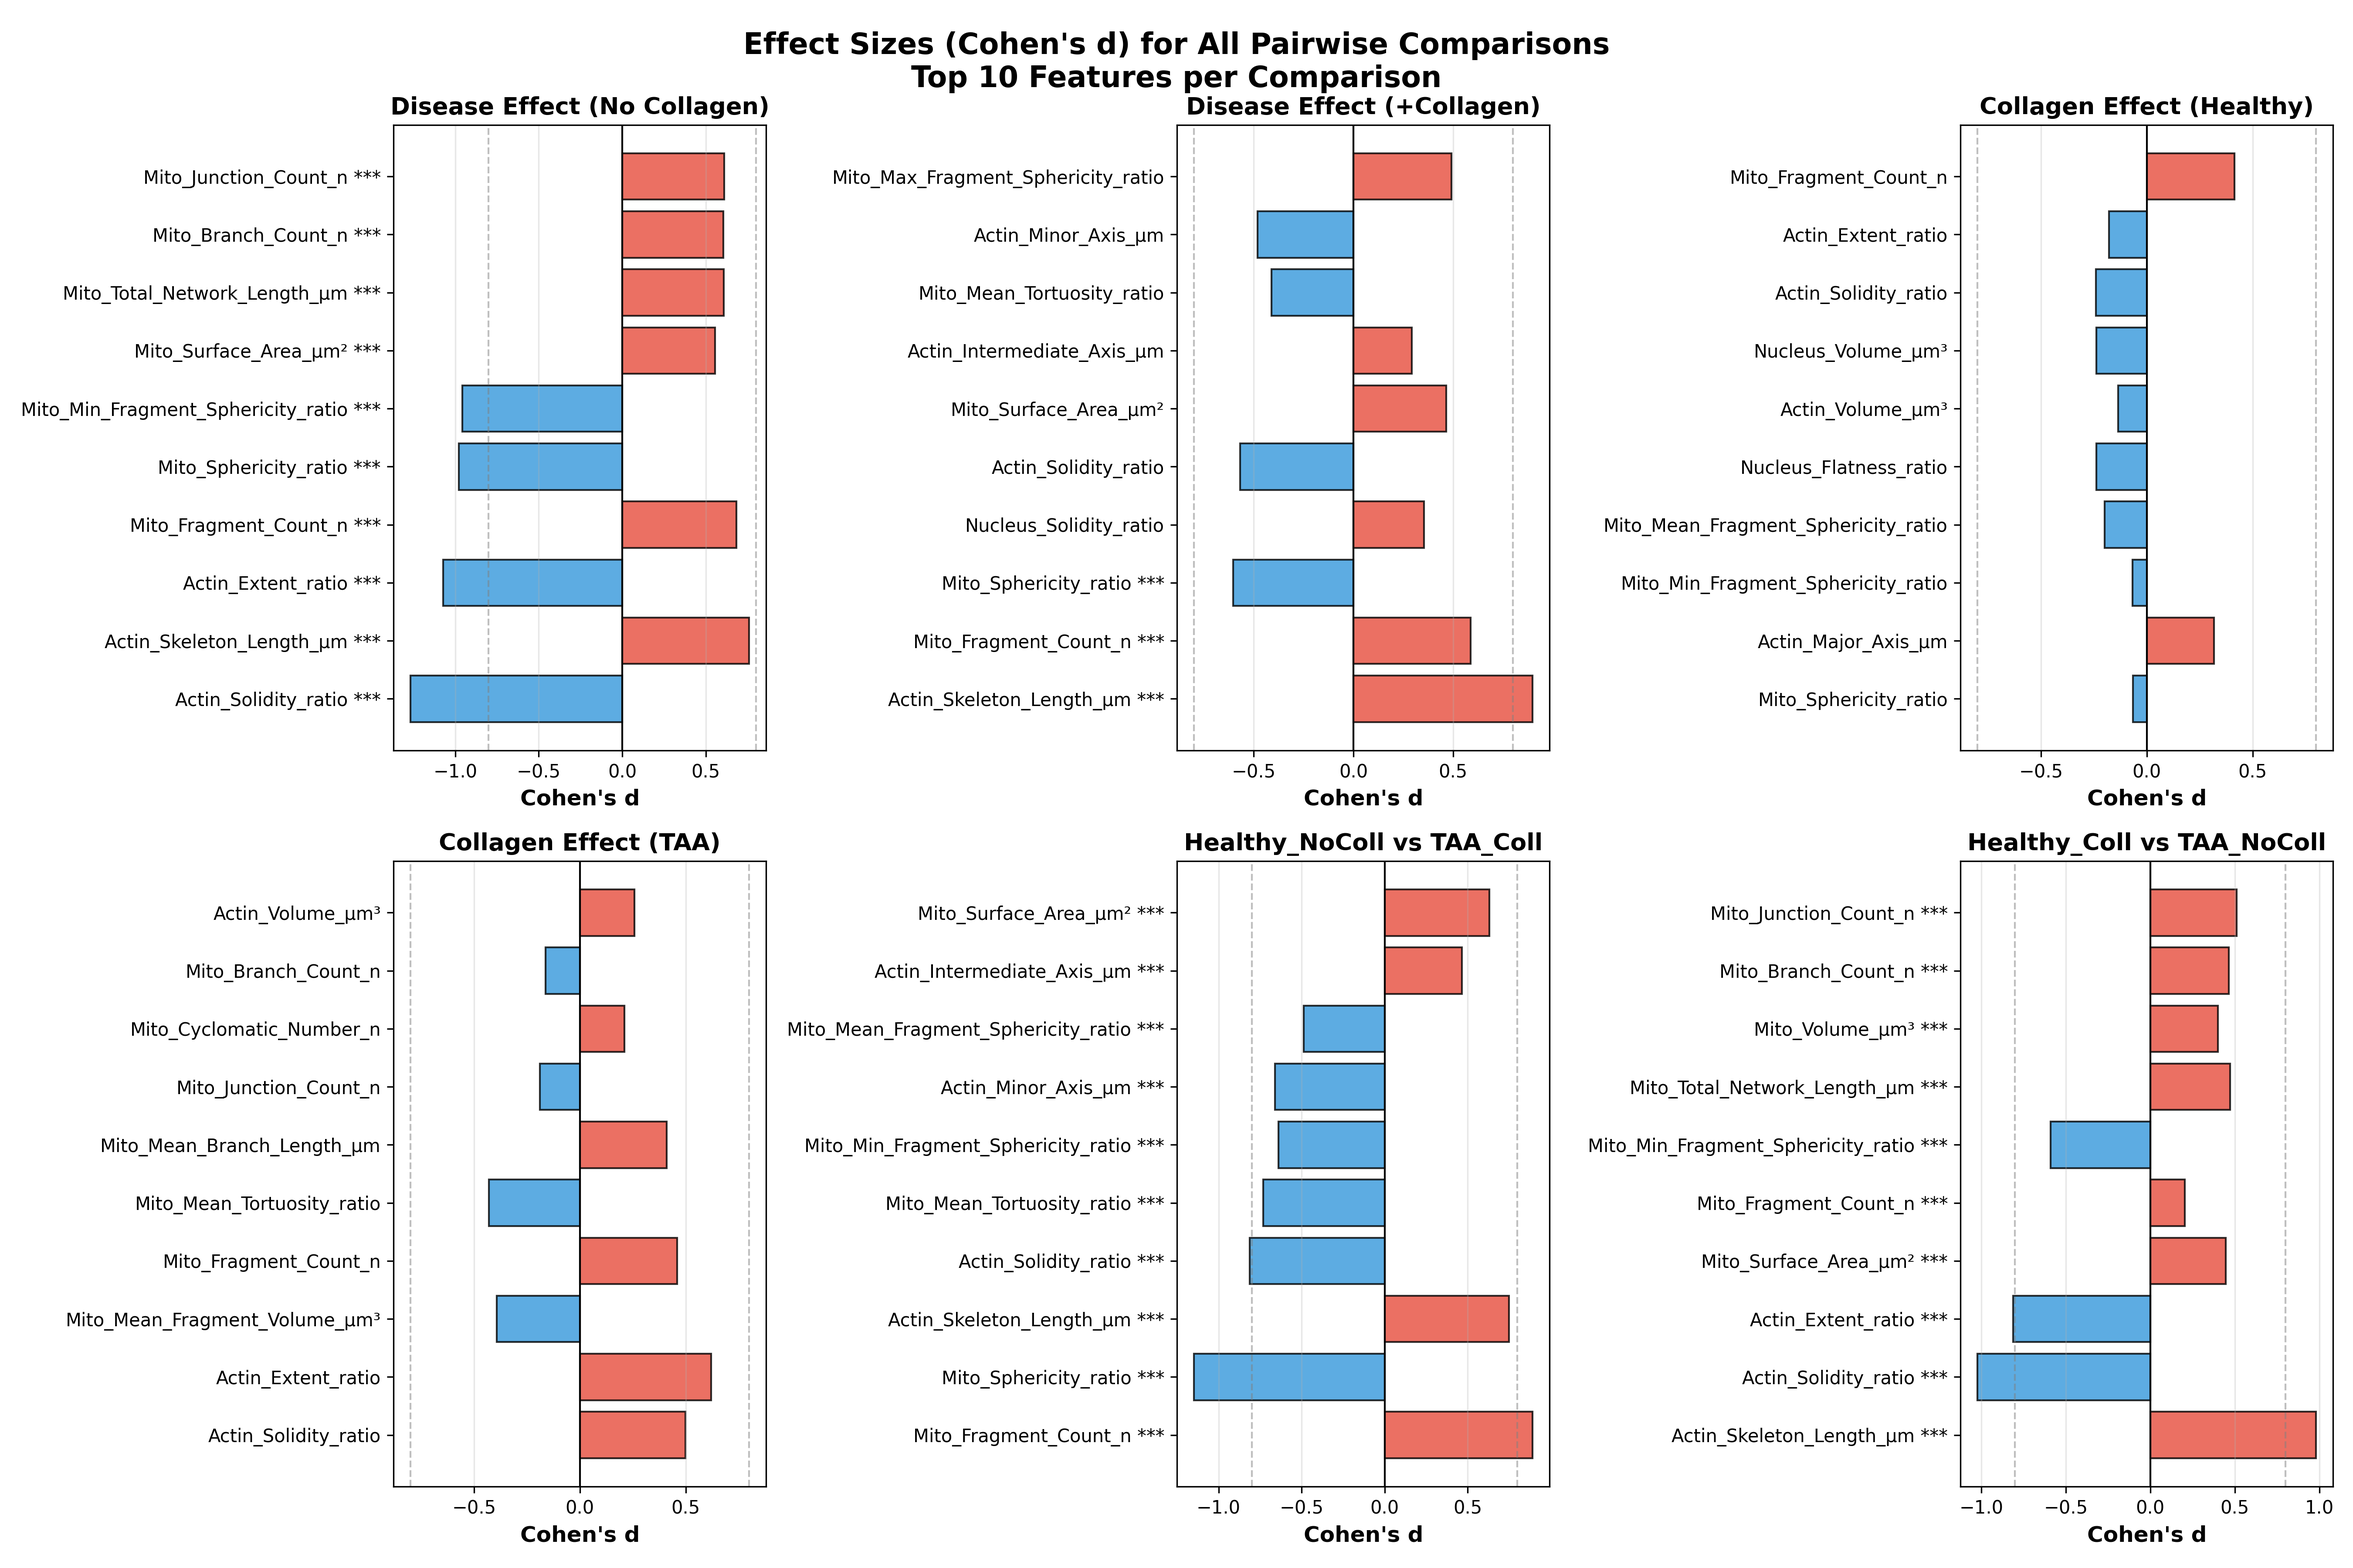
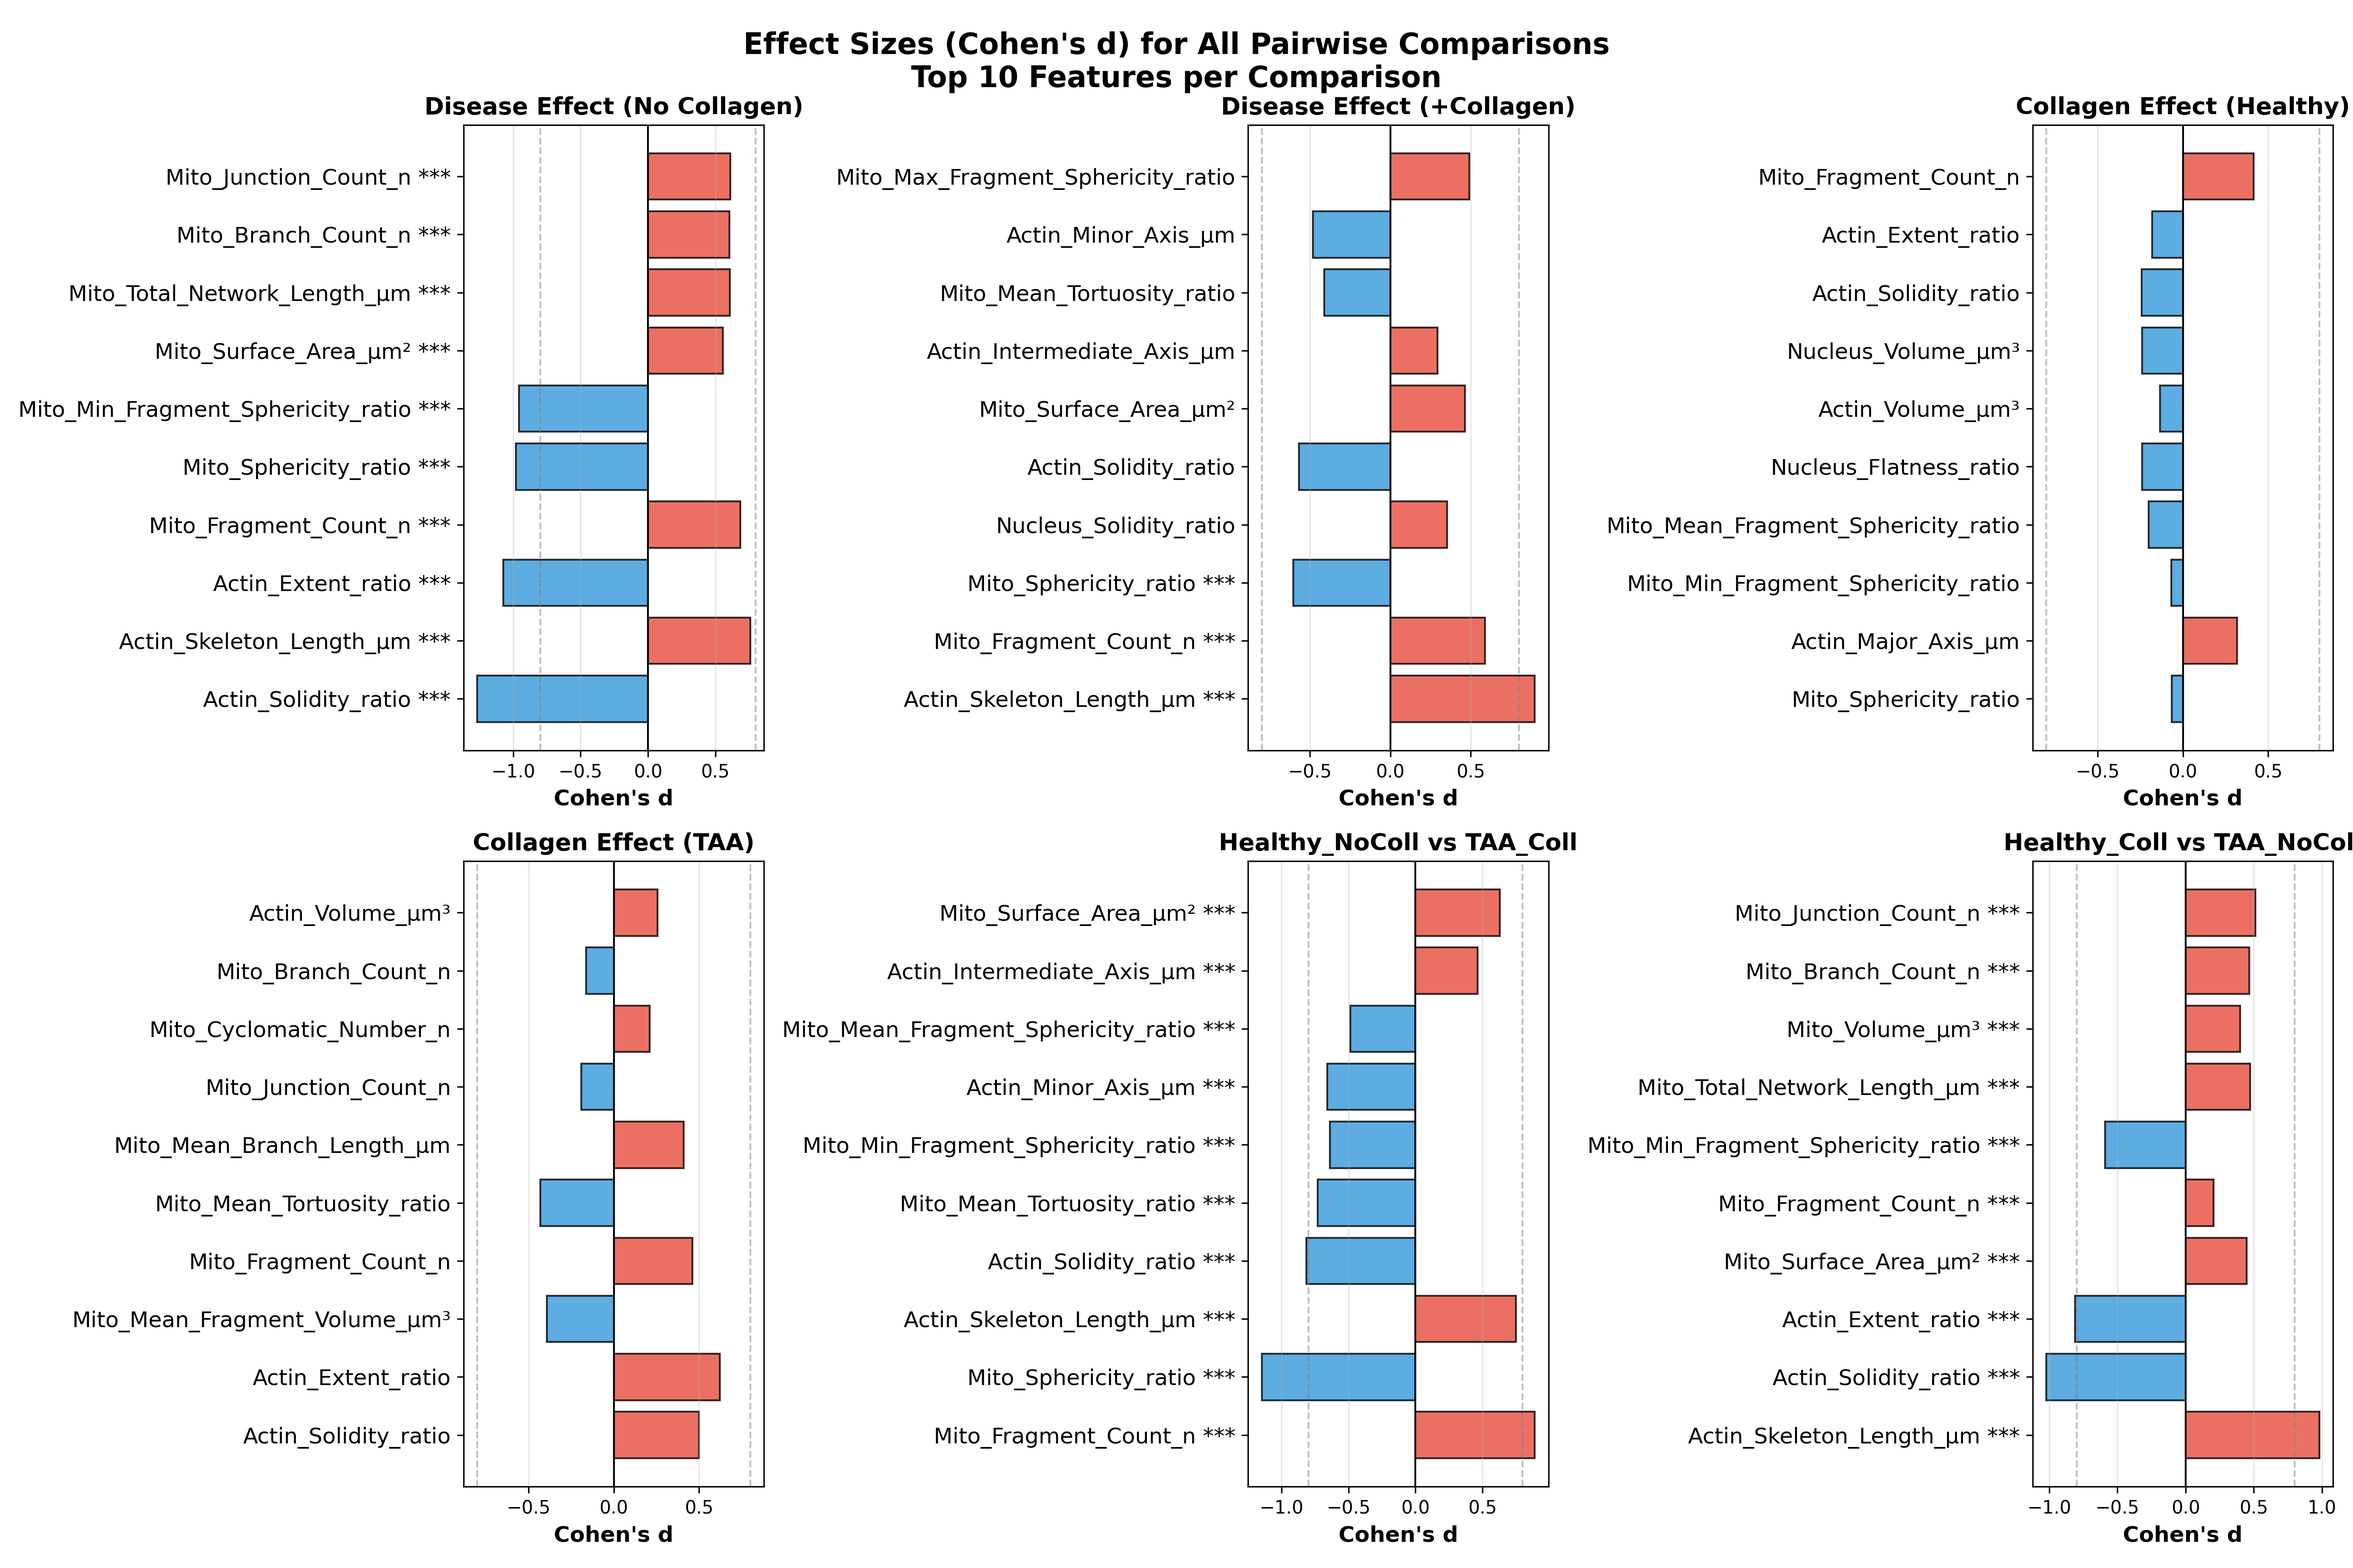
Increase feature font sizes in pairwise and Cohen's d plots

diff --git a/src/analysis/src/analysis/stats_TAAvsHealthyNoColl.py b/src/analysis/src/analysis/stats_TAAvsHealthyNoColl.py
@@ -285,42 +285,48 @@ def main():
     plt.savefig(f'{OUTPUT_DIR}/top_features_boxplots.png', dpi=300)
     print(f"Saved: {OUTPUT_DIR}/top_features_boxplots.png")
     
-    # 10. Boxplot for top features showing Healthy vs TAA
-    # Select top 10 features by effect size for boxplot
-    top_10_features = results_df.head(10)['Feature'].tolist()
+    # 10. Cohen's d effect size bar plot (all features)
+    fig, ax = plt.subplots(figsize=(14, 10))
     
-    fig, axes = plt.subplots(2, 5, figsize=(20, 10))
-    axes = axes.flatten()
+    # Sort by absolute effect size
+    results_sorted = results_df.sort_values('Effect_Size_Cohens_d', key=abs, ascending=True)
     
-    for i, feature in enumerate(top_10_features):
-        ax = axes[i]
-        plot_data = df_nocol[['Disease', feature]].dropna()
-        
-        sns.boxplot(data=plot_data, x='Disease', y=feature, ax=ax, 
-                   palette={'Healthy': '#3498DB', 'TAA': '#E74C3C'})
-        
-        # Get stats for this feature
-        feature_stats = results_df[results_df['Feature'] == feature].iloc[0]
-        d_val = feature_stats['Effect_Size_Cohens_d']
-        p_val = feature_stats['p_adjusted_FDR']
-        
-        if p_val < 0.001:
-            sig_label = '***'
-        elif p_val < 0.01:
-            sig_label = '**'
-        elif p_val < 0.05:
-            sig_label = '*'
-        else:
-            sig_label = ''
-        
-        ax.set_title(f"{feature}\nd={d_val:.2f} {sig_label}", fontsize=11, fontweight='bold')
-        ax.set_xlabel('')
-        ax.set_ylabel(feature, fontsize=10)
-        ax.tick_params(axis='x', labelsize=11)
-        ax.tick_params(axis='y', labelsize=10)
+    # Color by direction: positive (TAA higher) = red, negative (TAA lower) = blue
+    colors = ['#E74C3C' if d > 0 else '#3498DB' for d in results_sorted['Effect_Size_Cohens_d']]
     
-    plt.suptitle("Top 10 Features: Healthy vs TAA (No Collagen)\nCohen's d Effect Sizes", 
-                 fontsize=16, fontweight='bold')
+    # Create horizontal bar plot
+    y_pos = range(len(results_sorted))
+    ax.barh(y_pos, results_sorted['Effect_Size_Cohens_d'], color=colors, edgecolor='black', alpha=0.8)
+    
+    # Add feature names with bigger font
+    ax.set_yticks(y_pos)
+    ax.set_yticklabels(results_sorted['Feature'], fontsize=13)
+    
+    # Add reference lines for effect size thresholds
+    ax.axvline(x=0, color='black', linewidth=1)
+    ax.axvline(x=0.8, color='gray', linestyle='--', linewidth=1, alpha=0.5)
+    ax.axvline(x=-0.8, color='gray', linestyle='--', linewidth=1, alpha=0.5)
+    ax.axvline(x=0.5, color='gray', linestyle=':', linewidth=1, alpha=0.5)
+    ax.axvline(x=-0.5, color='gray', linestyle=':', linewidth=1, alpha=0.5)
+    
+    # Labels with bigger fonts
+    ax.set_xlabel("Cohen's d (Effect Size)", fontsize=14, fontweight='bold')
+    ax.set_ylabel('Feature', fontsize=14, fontweight='bold')
+    ax.set_title("Effect Size (Cohen's d) for All Features", fontsize=16, fontweight='bold')
+    ax.grid(axis='x', alpha=0.3)
+    ax.tick_params(axis='x', labelsize=12)
+    
+    # Add legend in bottom right
+    from matplotlib.patches import Patch
+    from matplotlib.lines import Line2D
+    legend_elements = [
+        Patch(facecolor='#E74C3C', edgecolor='black', label='TAA > Healthy'),
+        Patch(facecolor='#3498DB', edgecolor='black', label='TAA < Healthy'),
+        Line2D([0], [0], color='gray', linestyle='--', label='Large effect (|d|>0.8)'),
+        Line2D([0], [0], color='gray', linestyle=':', label='Medium effect (|d|>0.5)')
+    ]
+    ax.legend(handles=legend_elements, loc='lower right', fontsize=11, framealpha=0.95)
+    
     plt.tight_layout()
     plt.savefig(f'{OUTPUT_DIR}/cohens_d_effect_sizes.png', dpi=300)
     print(f"Saved: {OUTPUT_DIR}/cohens_d_effect_sizes.png")

diff --git a/src/analysis/src/analysis/pairwiseComparison.py b/src/analysis/src/analysis/pairwiseComparison.py
@@ -274,7 +274,7 @@ def main():
             else:
                 labels.append(feat)
         
-        ax.set_yticklabels(labels, fontsize=10)
+        ax.set_yticklabels(labels, fontsize=12)
         ax.axvline(x=0, color='black', linewidth=1)
         ax.axvline(x=0.8, color='gray', linestyle='--', linewidth=1, alpha=0.5)
         ax.axvline(x=-0.8, color='gray', linestyle='--', linewidth=1, alpha=0.5)
